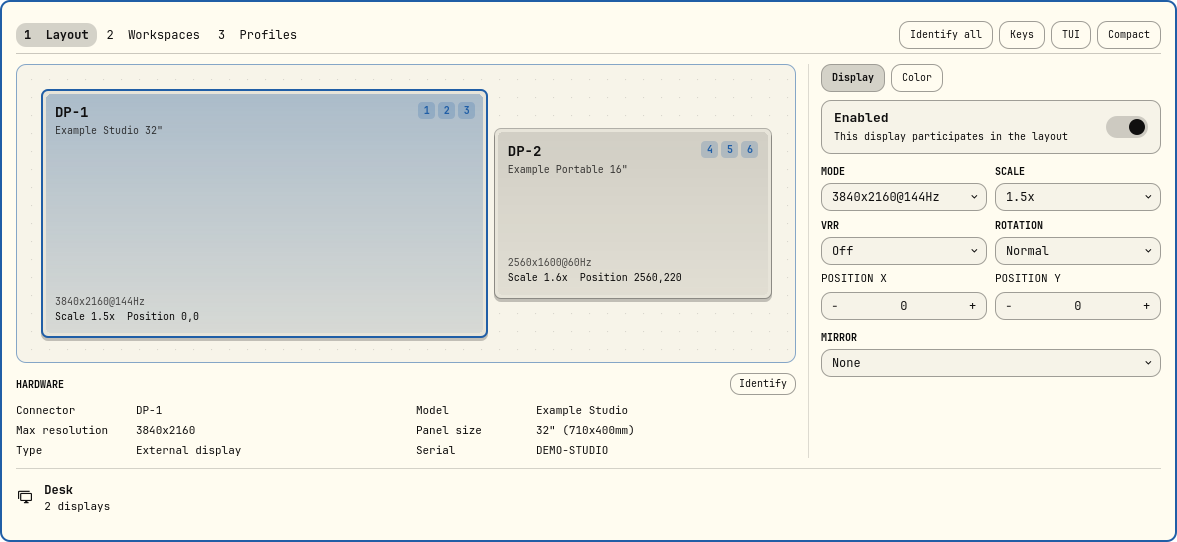
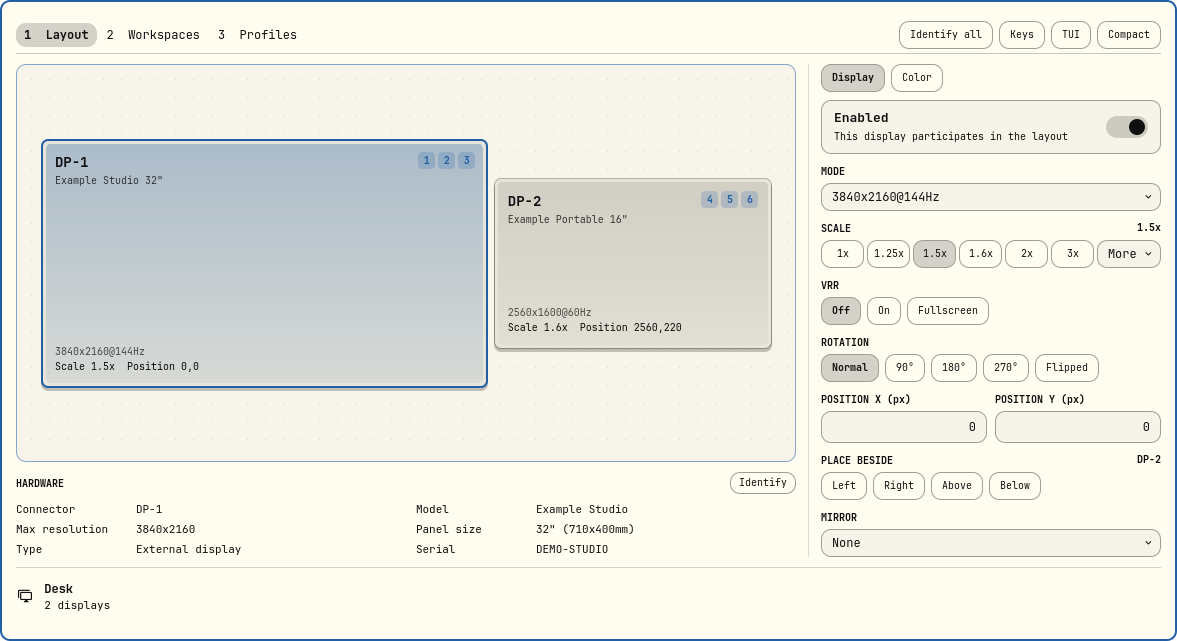
Release 2.6.0
The canvas stage, content-sized panel, inspector controls that follow
Omarchy's Display panel, and the automatic-selection fix (#20), with
refreshed screenshots and release notes.

diff --git a/design/releases/2.6.0.md b/design/releases/2.6.0.md
@@ -1,0 +1,46 @@
+# hyprmoncfg panel 2.6.0
+
+The panel has a new look. Your displays sit on a stage as lit screens, the panel sizes itself to what it shows instead of leaving empty space, and every setting uses a control that fits it. It works with [hyprmoncfg 1.19.0](https://github.com/crmne/hyprmoncfg/releases/tag/v1.19.0) or newer. The lid-closed match reasons need [hyprmoncfg 1.22.0](https://github.com/crmne/hyprmoncfg/releases/tag/v1.22.0), which brings the same redesign to the TUI.
+
+![The redesigned layout editor: two displays as lit screens on a dotted stage with workspace chips, hardware details under the canvas, and the display controls on the right](https://raw.githubusercontent.com/crmne/omarchy-hyprmoncfg/v2.6.0/design/releases/2.6.0-canvas-stage.png)
+
+*Synthetic displays, rendered offscreen.*
+
+**[Watch the 46-second launch video](https://github.com/crmne/omarchy-hyprmoncfg/releases/download/v2.6.0/hyprmoncfg-panel-2.6.0-launch.mp4)**
+
+## New
+
+- **Displays are screens on a stage.** Each display is drawn as a lit screen with its connector and model, its workspaces as chips, and its mode, scale and position. The compact view now leads with the layout.
+- **The panel fits its content.** It used to open at a fixed 1120x812 whatever it showed. The Layout page now takes its size from your arrangement, and Workspaces and Profiles grow with their rows, then scroll. It never grows past your screen, and it never resizes while you drag a display.
+- **Profiles show their layout.** Each saved profile has a small picture of its arrangement next to its name and match score.
+- **Controls that follow Omarchy's own Display panel.**
+  - Scale is a row of pills, as in Omarchy's panel: 1x, 1.25x, 1.5x, 1.6x, 2x and 3x, each adjusted to the nearest sharp scale above it for that display, with **More** listing every sharp scale. A scale you set yourself keeps its own pill and is never changed.
+  - Choice rows use Omarchy's own button group, so they look and respond like the rest of the shell.
+  - Position X and Y are exact pixel fields. Dragging, arrow keys and snapping stay the main way to move a display.
+  - **Place beside** puts the selected display Left, Right, Above or Below its nearest neighbour, using the same snapping as Alt+arrows.
+  - VRR, colour depth, SDR EOTF and the WCG and HDR overrides show every choice in a row. Rotation separates the angle from **Flipped**.
+  - A value the panel doesn't recognise stays visible as its own choice and is never rewritten.
+- **Keep or revert, at a glance.** The confirmation after a preview shows a draining countdown and a small picture of the layout you're about to keep.
+- **The Color tab grows the panel** instead of scrolling inside it.
+
+## Fixed
+
+- **"Automatically use the best profile" can be turned off without an exact match** ([#20](https://github.com/crmne/omarchy-hyprmoncfg/issues/20)). The toggle stayed disabled, with no reason given, whenever no saved profile was exactly on screen, which is the usual state after closing the lid while docked. Turning it off now previews the recommended profile, and keeping it pins that profile. With nothing to recommend, it says to save a profile for these displays. Reported by @brdweb.
+- **The score breakdown names the lid-closed reasons** from hyprmoncfg 1.22.0: "built-in, kept off with the lid closed" and "built-in, turned off by the closed lid".
+- **The last dropdown in the Display tab is no longer clipped,** and fields in the right-hand column keep their full border.
+
+## Known limitations
+
+- **A layout that already overlaps,** for example one saved that way, can't be edited until the overlap is fixed. The TUI lets you edit it.
+- **Resizing waits for the pointer to leave the panel** when its width changes or the bar isn't at the top, so the control under your pointer never moves.
+- **Long positions are shortened** on profile cards in narrow panels.
+
+## What's tested
+
+Node tests (161), offscreen QML tests (21), Quickshell checks of the new controls and plugin validation pass. The scale presets are checked against the same test cases as the TUI. The screenshots were rendered offscreen with sample data. The redesign was used on the maintainer's desktop; it hasn't been tried with a bottom or side bar, fractional scaling or larger fonts.
+
+## Thanks
+
+- @brdweb for reporting the automatic-selection toggle in #20.
+
+**Full changelog**: https://github.com/crmne/omarchy-hyprmoncfg/compare/v2.5.0...v2.6.0

diff --git a/README.md b/README.md
@@ -4,7 +4,7 @@ An Omarchy bar panel for [hyprmoncfg](https://hyprmoncfg.dev/). Create multi-mon
 
 ![hyprmoncfg for Omarchy](preview.png)
 
-Version 2.4 brings a cleaner Layout / Workspaces / Profiles editor, more discoverable display and profile actions, and refreshes that preserve your edits while displays connect. The compact view keeps everyday controls close; expand it for the spatial editor. The companion TUI shares the core operations and display terminology, with native keyboard-first controls. See the [release notes](design/releases/2.4.0.md) for highlights and remaining differences.
+Version 2.6 draws your displays as screens on a stage, sizes the panel to what it shows, and gives every setting a control that fits it. The compact view leads with the layout; expand it for the full editor. The companion TUI shares the same design, placement rules and display terminology, with native keyboard-first controls. See the [release notes](design/releases/2.6.0.md) for highlights and remaining differences.
 
 Screenshots show the actual panel with synthetic display/profile data in an isolated capture host, not a live hardware test.
 
